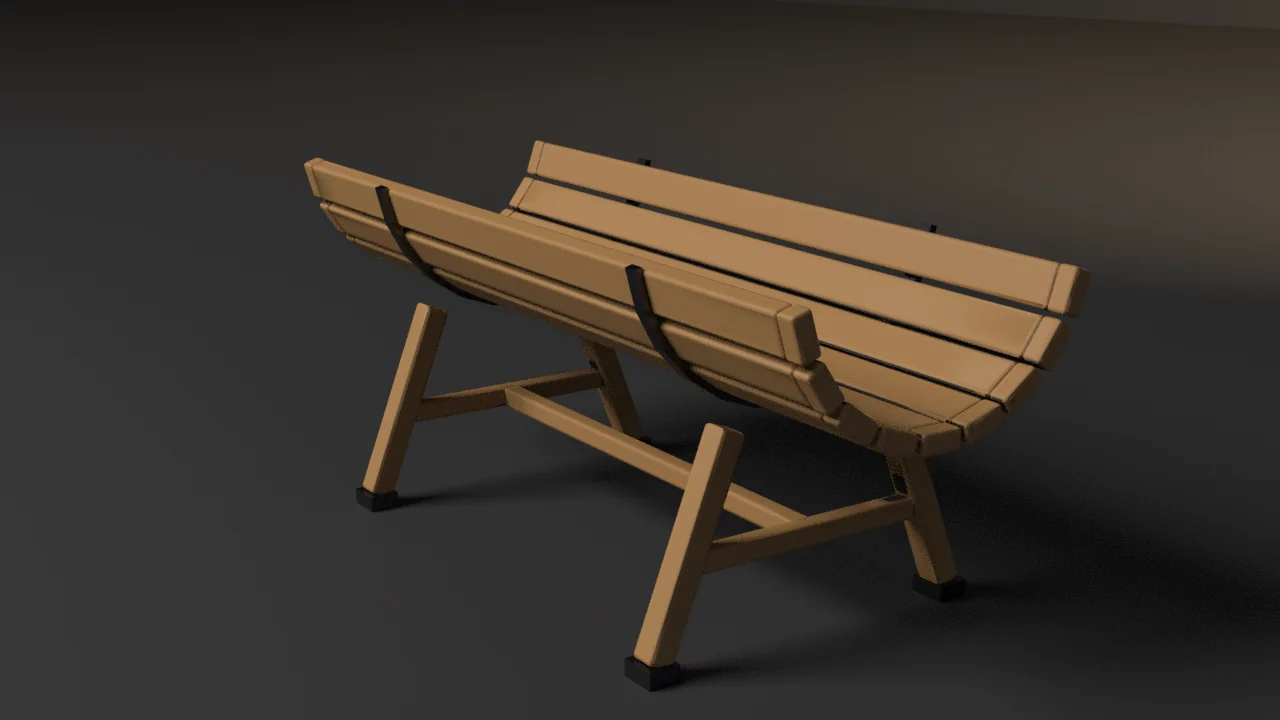
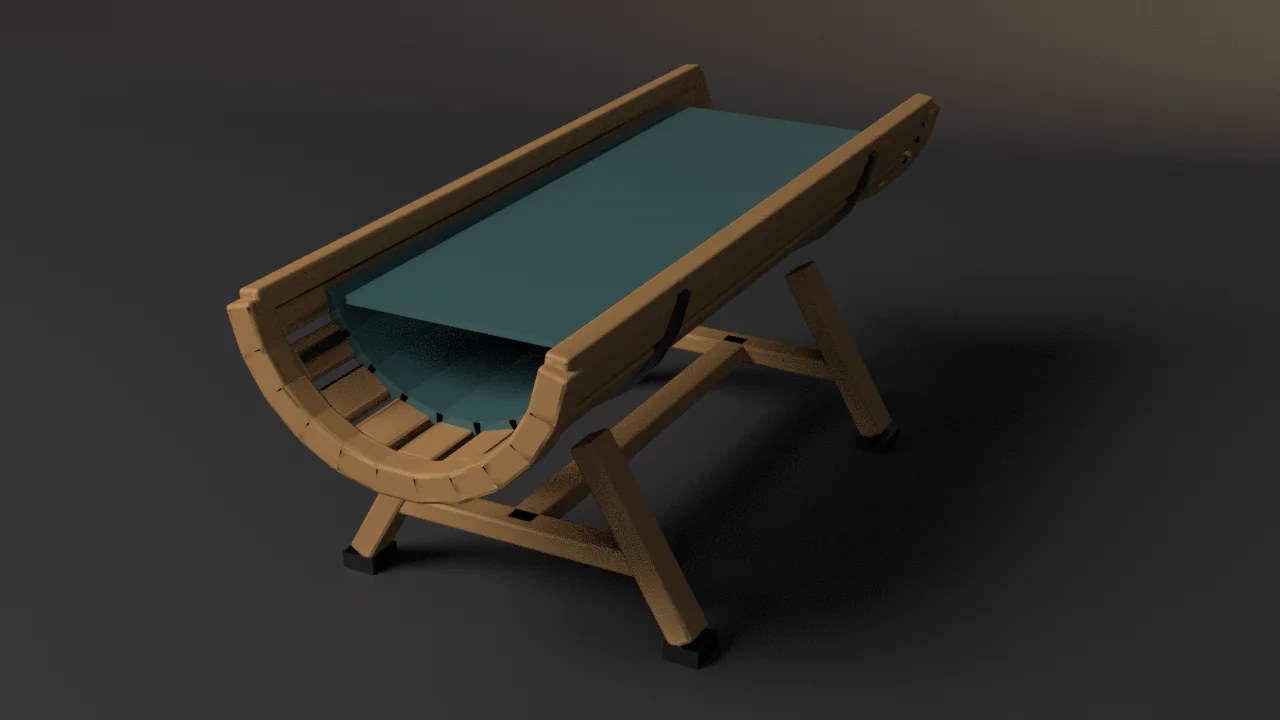
fix: rebuild water-trough as a staved vessel with water
Solid U end-caps, a water fill, and an into-the-hollow camera so
the piece no longer reads as an underside bench of slats.

diff --git a/showcase/water-trough/water_trough.py b/showcase/water-trough/water_trough.py
@@ -1,8 +1,9 @@
 """Game-ready wooden water trough — a showcase piece, not an example.
 
 Asserts budget conformance of a procedural staved trough on a timber
-stand (U-staves, end boards, iron straps, trestle legs) after composing
-shipped pipeline pieces: bmesh construction, UVs, two materials,
+stand (U-staves, solid end-caps, water, iron straps, trestle legs)
+after composing shipped pipeline pieces: bmesh construction, UVs, three
+materials,
 high-to-low normal bake, LOD chain, convex collider, Unity glTF export.
 
 Budgets are declared below and recomputed from the generated result.
@@ -42,16 +43,16 @@ N_STAVES = 9
 A_SPAN = 1.42
 
 BBOX_TOL = 0.01
-OUTER_SIZE = (1.136, 0.482, 0.470)
-BASE_TRIS_MIN = 3880
-BASE_TRIS_MAX = 4140
+OUTER_SIZE = (1.162, 0.528, 0.488)
+BASE_TRIS_MIN = 4650
+BASE_TRIS_MAX = 4900
 LOD1_RATIO_MIN = 0.32
 LOD1_RATIO_MAX = 0.62
 LOD2_RATIO_MIN = 0.10
 LOD2_RATIO_MAX = 0.35
 LOD1_TARGET = 0.50
 LOD2_TARGET = 0.22
-MATERIAL_COUNT = 2
+MATERIAL_COUNT = 3
 UV_EPS = 1e-4
 UV_OVERLAP_MAX = 1e-5
 COLLIDER_TRIS_MAX = 150
@@ -59,9 +60,11 @@ BAKE_RES = 256
 CAGE_EXTRUSION = 0.08
 METAL_FACES_MIN = 24
 WOOD_FACES_MIN = 24
+WATER_FACES_MIN = 6
 
 WOOD_IDX = 0
 METAL_IDX = 1
+WATER_IDX = 2
 
 
 def eevee_engine_id():
@@ -221,14 +224,14 @@ def build_trough_mesh(name, bevel_offset, bevel_segments):
         zc = 0.30 + TRAY_R
         cx = 0.0
 
-        def pt(a, x):
+        def pt(a, x, radius=TRAY_R):
             return (
                 x,
-                TRAY_R * math.sin(a),
-                zc - TRAY_R * math.cos(a),
+                radius * math.sin(a),
+                zc - radius * math.cos(a),
             )
 
-        gap = 0.10
+        gap = 0.16
         for i in range(N_STAVES):
             t0 = i / N_STAVES
             t1 = (i + (1.0 - gap)) / N_STAVES
@@ -245,39 +248,58 @@ def build_trough_mesh(name, bevel_offset, bevel_segments):
                     euler=(mid, 0.0, 0.0),
                 )
             )
-            for xend in (cx + TRAY_L / 2.0 + 0.014, cx - TRAY_L / 2.0 - 0.014):
+
+        n_end = 11
+        end_r = TRAY_R + STAVE_T * 0.15
+        for xend in (cx + TRAY_L / 2.0 + 0.020, cx - TRAY_L / 2.0 - 0.020):
+            for i in range(n_end):
+                t0 = i / n_end
+                t1 = (i + 1.0) / n_end
+                a0 = -A_SPAN + 2.0 * A_SPAN * t0
+                a1 = -A_SPAN + 2.0 * A_SPAN * t1
+                mid = 0.5 * (a0 + a1)
+                chord = end_r * abs(a1 - a0) * 1.18
                 wood.extend(
                     add_box(
                         bm,
-                        pt(mid, xend),
-                        (0.028, chord * 1.02, STAVE_T * 1.05),
+                        pt(mid, xend, end_r),
+                        (0.042, chord, STAVE_T * 1.45),
                         WOOD_IDX,
                         euler=(mid, 0.0, 0.0),
                     )
                 )
 
-        for sx in (-TRAY_L * 0.32, TRAY_L * 0.32):
+        for a_lip in (-A_SPAN, A_SPAN):
+            wood.extend(
+                add_box(
+                    bm,
+                    pt(a_lip, cx),
+                    (TRAY_L + 0.050, 0.034, 0.030),
+                    WOOD_IDX,
+                    euler=(a_lip, 0.0, 0.0),
+                )
+            )
+
+        for sx in (-TRAY_L * 0.30, TRAY_L * 0.30):
             for ysign in (-1.0, 1.0):
-                top = (sx, ysign * 0.12, zc - TRAY_R - 0.02)
-                bot = (sx, ysign * 0.22, 0.02)
+                top = (sx, ysign * 0.10, zc - TRAY_R - 0.035)
+                bot = (sx, ysign * 0.24, 0.024)
                 wood.extend(
-                    add_oriented_box(bm, top, bot, (0.036, 0.036), WOOD_IDX)
+                    add_oriented_box(bm, top, bot, (0.050, 0.036), WOOD_IDX)
                 )
             wood.extend(
-                add_oriented_box(
+                add_box(
                     bm,
-                    (sx, -0.16, 0.13),
-                    (sx, 0.16, 0.13),
-                    (0.028, 0.028),
+                    (sx, 0.0, 0.115),
+                    (0.044, 0.38, 0.030),
                     WOOD_IDX,
                 )
             )
         wood.extend(
-            add_oriented_box(
+            add_box(
                 bm,
-                (-TRAY_L * 0.32, 0.0, 0.13),
-                (TRAY_L * 0.32, 0.0, 0.13),
-                (0.028, 0.028),
+                (0.0, 0.0, 0.115),
+                (TRAY_L * 0.62, 0.044, 0.030),
                 WOOD_IDX,
             )
         )
@@ -313,16 +335,40 @@ def build_trough_mesh(name, bevel_offset, bevel_segments):
                 metal.extend(
                     add_oriented_box(bm, p0, p1, (0.020, 0.010), METAL_IDX)
                 )
-        for sx in (-TRAY_L * 0.32, TRAY_L * 0.32):
+        for sx in (-TRAY_L * 0.30, TRAY_L * 0.30):
             for ysign in (-1.0, 1.0):
                 metal.extend(
                     add_box(
                         bm,
-                        (sx, ysign * 0.22, 0.012),
-                        (0.050, 0.042, 0.022),
+                        (sx, ysign * 0.24, 0.012),
+                        (0.056, 0.048, 0.024),
                         METAL_IDX,
                     )
                 )
+
+        n_w = 9
+        wr = TRAY_R - STAVE_T * 0.60
+        span = A_SPAN * 0.90
+        for i in range(n_w):
+            t0 = i / n_w
+            t1 = (i + 1.0) / n_w
+            a0 = -span + 2.0 * span * t0
+            a1 = -span + 2.0 * span * t1
+            mid = 0.5 * (a0 + a1)
+            chord = wr * abs(a1 - a0) * 1.16
+            add_box(
+                bm,
+                pt(mid, cx, wr),
+                (TRAY_L * 0.84, chord, 0.018),
+                WATER_IDX,
+                euler=(mid, 0.0, 0.0),
+            )
+        add_box(
+            bm,
+            (cx, 0.0, zc - TRAY_R * 0.28),
+            (TRAY_L * 0.84, TRAY_R * 1.50, 0.010),
+            WATER_IDX,
+        )
 
         xs = [v.co.x for v in bm.verts]
         ys = [v.co.y for v in bm.verts]
@@ -363,9 +409,9 @@ def principled(name, color, metallic, roughness):
     return mat
 
 
-def assign_slots(obj, wood, metal):
+def assign_slots(obj, wood, metal, water):
     mats = obj.data.materials
-    wanted = (wood, metal)
+    wanted = (wood, metal, water)
     for i, mat in enumerate(wanted):
         if i < len(mats):
             mats[i] = mat
@@ -498,8 +544,9 @@ def check(skip_decimate):
     high = build_trough_mesh("TroughHigh", bevel_offset=0.005, bevel_segments=4)
     wood = principled("TroughWood", (0.40, 0.22, 0.08, 1.0), 0.0, 0.58)
     metal = principled("TroughIron", (0.10, 0.105, 0.12, 1.0), 1.0, 0.30)
-    assign_slots(low, wood, metal)
-    assign_slots(high, wood, metal)
+    water = principled("TroughWater", (0.05, 0.13, 0.14, 1.0), 0.0, 0.14)
+    assign_slots(low, wood, metal, water)
+    assign_slots(high, wood, metal, water)
 
     if low.data is None or len(low.data.polygons) < 6:
         return fail("trough mesh did not build", 3), None, None, None, None, None
@@ -583,6 +630,11 @@ def check(skip_decimate):
             f"wood faces {idx_counts.get(WOOD_IDX, 0)} < {WOOD_FACES_MIN}",
             5,
         ), None, None, None, None, None
+    if idx_counts.get(WATER_IDX, 0) < WATER_FACES_MIN:
+        return fail(
+            f"water faces {idx_counts.get(WATER_IDX, 0)} < {WATER_FACES_MIN}",
+            5,
+        ), None, None, None, None, None
     if u0 < -UV_EPS or v0 < -UV_EPS or u1 > 1.0 + UV_EPS or v1 > 1.0 + UV_EPS:
         return fail(
             f"UVs outside 0..1: ({u0:.4f},{v0:.4f})-({u1:.4f},{v1:.4f})",
@@ -646,7 +698,7 @@ def render_still(low, wood, tex, path, engine):
             ob.hide_render = True
             ob.hide_viewport = True
 
-    low.rotation_euler.z = math.radians(-16.0)
+    low.rotation_euler.z = math.radians(-90.0)
     low.rotation_euler.x = math.radians(0.0)
 
     floor_me = bpy.data.meshes.new("Floor")
@@ -693,10 +745,10 @@ def render_still(low, wood, tex, path, engine):
     cam_data = bpy.data.cameras.new("Cam")
     cam_data.lens = 50.0
     cam = bpy.data.objects.new("Cam", cam_data)
-    cam.location = (1.43, -1.73, 0.88)
+    cam.location = (1.05, -2.00, 1.22)
     scene.collection.objects.link(cam)
     aim = bpy.data.objects.new("Aim", None)
-    aim.location = (0.0, 0.0, 0.26)
+    aim.location = (0.0, 0.0, 0.22)
     scene.collection.objects.link(aim)
     con = cam.constraints.new("TRACK_TO")
     con.target = aim

diff --git a/showcase/water-trough/README.md b/showcase/water-trough/README.md
@@ -1,9 +1,9 @@
 # Water trough
 
 A showcase piece, not an example. Procedural staved water trough on a
-timber stand (U-staves, end boards, iron straps, trestle legs) then the
-shipped pipeline: unique-cell UVs, Cycles high-to-low normal bake, LOD
-chain, convex collider, Unity glTF export.
+timber stand (U-staves, solid end-caps, water, iron straps, trestle
+legs) then the shipped pipeline: unique-cell UVs, Cycles high-to-low
+normal bake, LOD chain, convex collider, Unity glTF export.
 
 It asserts **budget conformance** of the generated result. It does not
 witness an API contract. "It rendered without error" is not a check.
@@ -21,14 +21,14 @@ materials, UVs, evaluated LOD, collider, or export file.
 
 | Axis | Declared | Measured (4.5.11 / 5.1.2 / 5.2.1) |
 | --- | --- | --- |
-| Base triangles | 3880–4140 | 4008 / 4008 / 4008 |
+| Base triangles | 4650–4900 | 4776 / 4776 / 4776 |
 | LOD1 ratio | 0.32–0.62 of base | 0.5000 / 0.5000 / 0.5000 |
-| LOD2 ratio | 0.10–0.35 of base | 0.2196 / 0.2196 / 0.2196 |
-| Materials | exactly 2 distinct, ≥24 metal faces | 2 slots, 168 metal |
+| LOD2 ratio | 0.10–0.35 of base | 0.2198 / 0.2198 / 0.2198 |
+| Materials | exactly 3 distinct, ≥24 metal and ≥6 water faces | 3 slots, 168 metal, 60 water |
 | UVs | in `0..1`, AABB overlap ≤ 1e-5 | in range, overlap 0 |
-| Outer AABB | (1.136, 0.482, 0.470) m ± 0.01 | (1.1360, 0.4820, 0.4701), zmin 0 |
-| Collider tris | ≤ 150 | 108 |
-| Export | written, size > 0 | 292484 / 292484 / 292468 bytes |
+| Outer AABB | (1.162, 0.528, 0.488) m ± 0.01 | (1.1620, 0.5280, 0.4883), zmin 0 |
+| Collider tris | ≤ 150 | 128 |
+| Export | written, size > 0 | 348208 / 348208 / 348192 bytes |
 
 DECIMATE COLLAPSE triangle counts are **not** identical across series
 in general — the gate is a ratio band, not an exact count. On this
@@ -62,7 +62,7 @@ File-local. `9` is a valid check code. `10` is reserved for
 | 2 | argparse / usage |
 | 3 | Mesh did not build / no UV layer |
 | 4 | Base triangle count outside range |
-| 5 | Material count ≠ 2 distinct slots, or wood/metal faces missing |
+| 5 | Material count ≠ 3 distinct slots, or wood/metal/water faces missing |
 | 6 | UVs outside 0..1 |
 | 7 | UV AABB overlap above tolerance |
 | 8 | World AABB off declared outer size |
